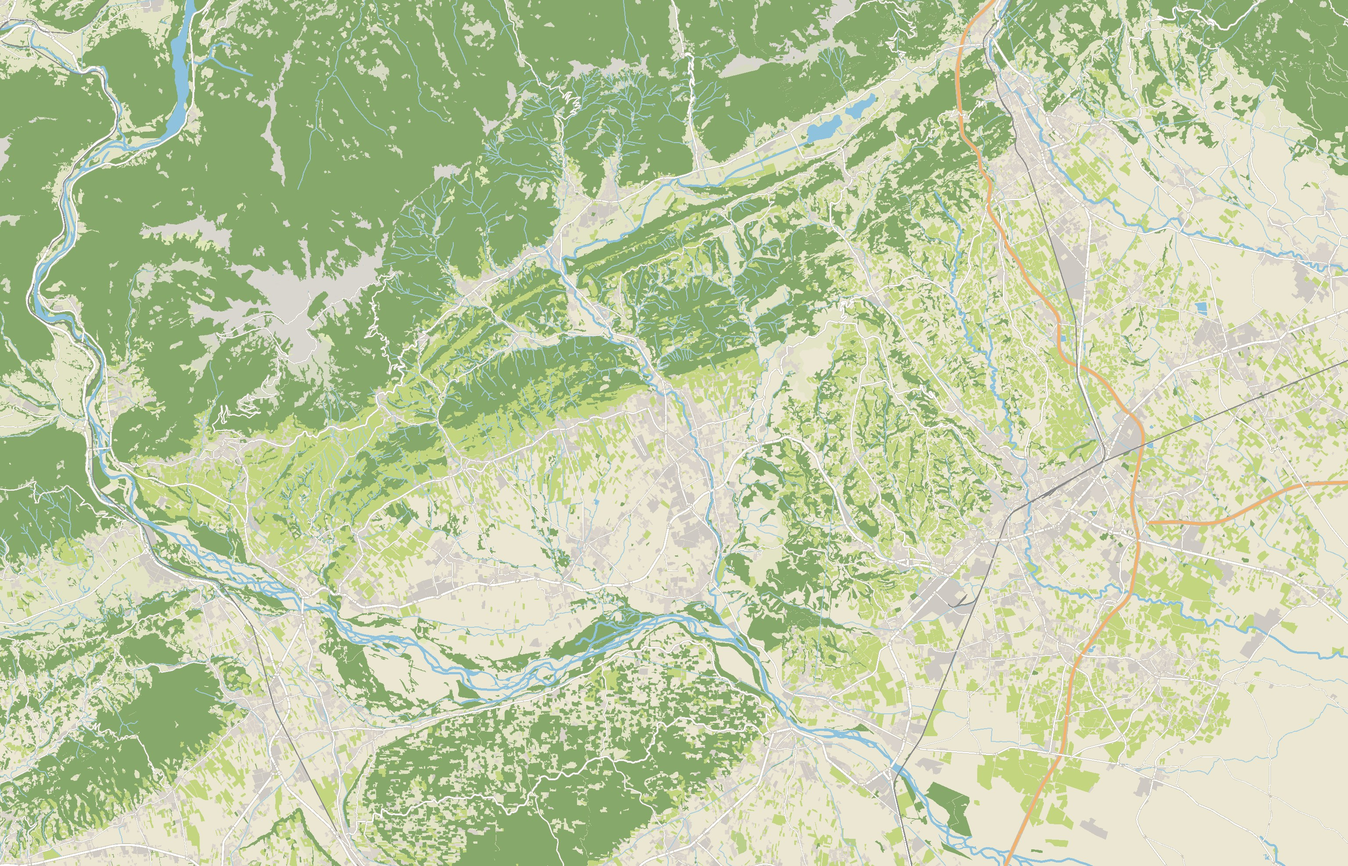
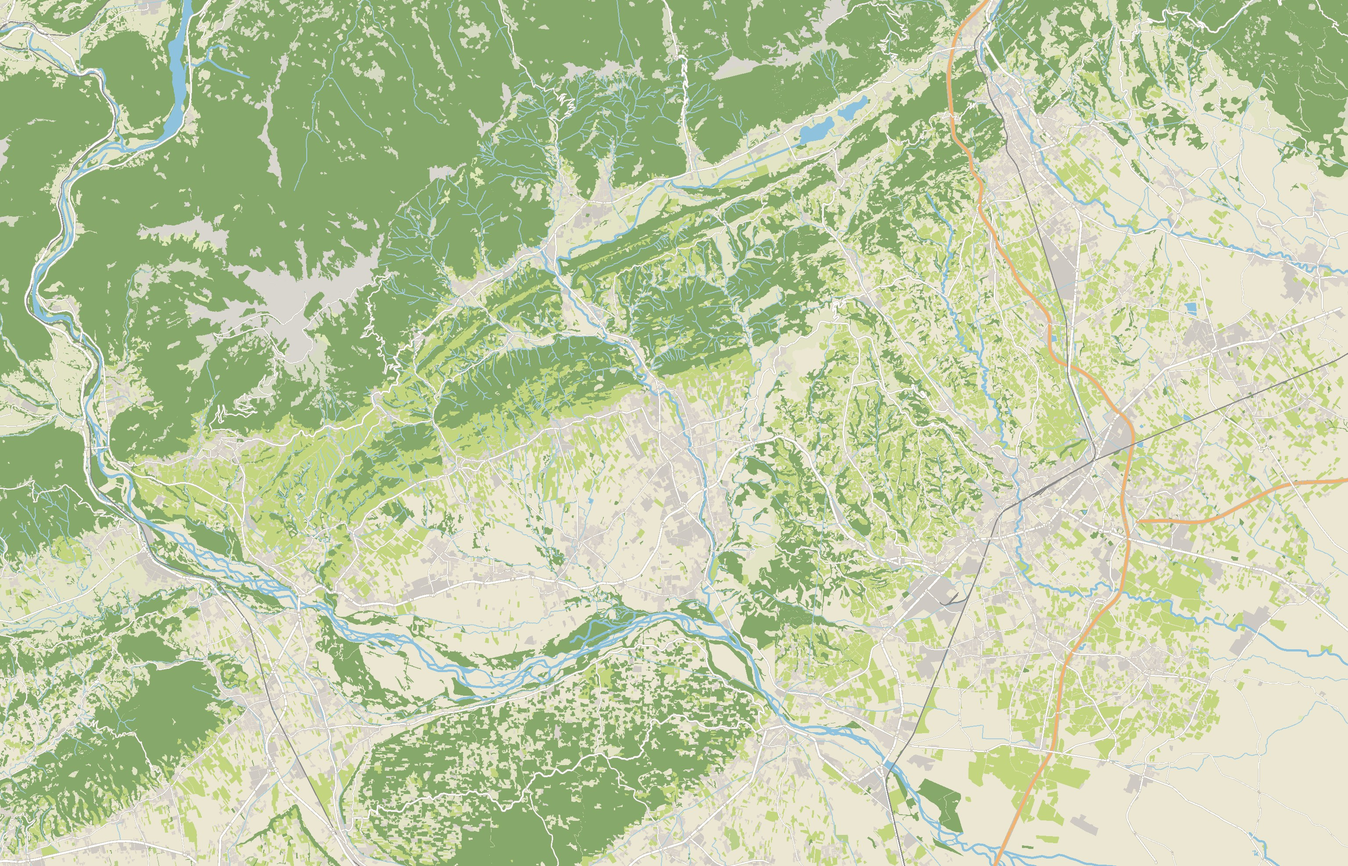
Calibrazione automatica delle mappe fornite sui vettori stradali OSM (tools/calibra-mappe.mjs), modulo geometria condiviso, dati rigenerati

diff --git a/LEGGIMI.md b/LEGGIMI.md
@@ -40,6 +40,8 @@ tools/
   luoghi.mjs               ELENCO CURATO: i tre livelli del brief, coordinate stimate, i 15 monumenti, gli itinerari (tappe)
   build-data.mjs           costruzione dati (vedi §4)
   importa-materiali.mjs    importa mappe, GLB e foto dei monumenti dalla cartella dei materiali
+  calibra-mappe.mjs        calibrazione automatica delle mappe fornite sui vettori OSM (vedi §4)
+  geometria.mjs            funzioni condivise: Mercator, Overpass → poligoni/linee, rasterizzatore
 AVVIA.bat                  avvio con doppio clic su Windows
 ```
 
@@ -59,9 +61,13 @@ Nell'anteprima del Code tab il server si chiama `mappa-prosecco` (porta 5800). N
 ## 4. Da dove vengono i dati
 
 - **Riquadro del plastico**: è quello delle tre mappe fornite (screenshot Google Maps 12292×7898 px in Web Mercator, stesso
-  inquadramento). La calibrazione è in `tools/build-data.mjs` (`ANCORE`: pixel delle etichette di Valdobbiadene, Conegliano e
-  Vittorio Veneto ↔ nodi OSM). Precisione attuale ≈ 100–400 m: si può affinare aggiungendo ancore o correggendo il riquadro
-  nel backend (Impostazioni) e rigenerando terreno e colori.
+  inquadramento). Prima stima in `tools/build-data.mjs` (`ANCORE`: pixel delle etichette di tre città ↔ nodi OSM), poi
+  **calibrazione automatica** con `node tools/calibra-mappe.mjs --tema=strade --applica`: registra la maschera delle strade grigie
+  della mappa stradale sui vettori stradali OpenStreetMap (scala conforme + spostamento) e scrive `bbox` e `calibrazione` in
+  config.json; i ritagli `data/cache/calibrazione-controllo-*.jpg` mostrano i vettori OSM in rosso sulla mappa per il controllo
+  visivo. Precisione ottenuta ≈ 10–20 m (le strade coincidono); i laghi di Revine appaiono leggermente diversi perché Google e
+  OSM hanno contorni diversi, non per errore di calibrazione. Dopo una nuova calibrazione rigenerare terreno e colori
+  (`--solo=terreno`, `--solo=colori`). Il tema "acqua" (fiumi) è meno affidabile: i letti del Piave differiscono tra le fonti.
 - **Rilievo**: tile terrarium zoom 12 (≈27 m/px) ricampionati sul riquadro. Quote 13–1550 m. Esagerazione predefinita 1,7.
 - **Colori**: vettori OpenStreetMap via Overpass (vigneti `landuse=vineyard`, boschi, abitati, industriali, acque, fiumi,
   strade principali, ferrovie) rasterizzati con tavolozza "mappa di carta" (`COLORI` in build-data.mjs). La base cambia tinta per
@@ -89,7 +95,7 @@ Nell'anteprima del Code tab il server si chiama `mappa-prosecco` (porta 5800). N
 
 ## 6. Limiti noti / prossimi passi
 
-- La calibrazione delle mappe fornite va affinata (vedi §4); il riquadro è modificabile dal backend ma richiede rigenerazione.
+- Il riquadro è modificabile anche a mano dal backend (Impostazioni), ma poi richiede la rigenerazione di terreno e colori.
 - La texture dei colori (13 m/px) è sfocata a bassa quota nel percorso animato: si può aumentare `W` in `colori()` (es. 6144)
   o aggiungere tile raster per lo zoom alto.
 - Nessuna foto 360 è ancora caricata (il committente non ne ha fornite): si aggiungono dal backend.
